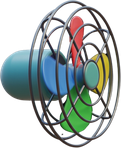
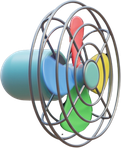
v0.17: pervane modeli aydinlatildi, kapali tonu kaldirildi
Claude-Session: https://claude.ai/code/session_017AaaMCeVHMkA1CeuVEH2QL

diff --git a/www/js/game.js b/www/js/game.js
@@ -348,7 +348,7 @@ class Oyun extends Phaser.Scene {
       else p.cy = p.py - KARE_PX + fw / 2;                // tavana asılı, aşağı üfler
       p.yari = fh * 0.42;                                 // rüzgar bandının yarı genişliği (px)
       p.on = fw / 2;                                      // ön kenara uzaklık (px)
-      const spr = this.add.image(p.cx, p.cy, "fan0").setScale(PERVANE_OLCEK).setDepth(3).setTint(0x9a9a9a);
+      const spr = this.add.image(p.cx, p.cy, "fan0").setScale(PERVANE_OLCEK).setDepth(3);
       if (p.yon === "l") spr.setFlipX(true);
       if (p.yon === "u") spr.setAngle(-90);
       if (p.yon === "d") spr.setAngle(90);
@@ -364,7 +364,6 @@ class Oyun extends Phaser.Scene {
   pervaneTikla(p) {
     if (this.durum !== "oyun") return;
     p.acik = !p.acik;
-    p.spr.setTint(p.acik ? 0xffffff : 0x9a9a9a);
     this.ruzgarKur();
   }
 

diff --git a/www/js/config.js b/www/js/config.js
@@ -1,7 +1,7 @@
 // Oyunun tüm ayarları burada. AdMob ID'lerini buraya yaz.
 window.OYUN_CONFIG = {
   oyunAdi: "DigPopeyeDug",
-  surum: "v0.16", // sağ altta görünür
+  surum: "v0.17", // sağ altta görünür
   paketAdi: "com.jawk.digpopeyedug", // Play Store'a yüklendikten sonra DEĞİŞTİRİLEMEZ
 
   reklam: {
